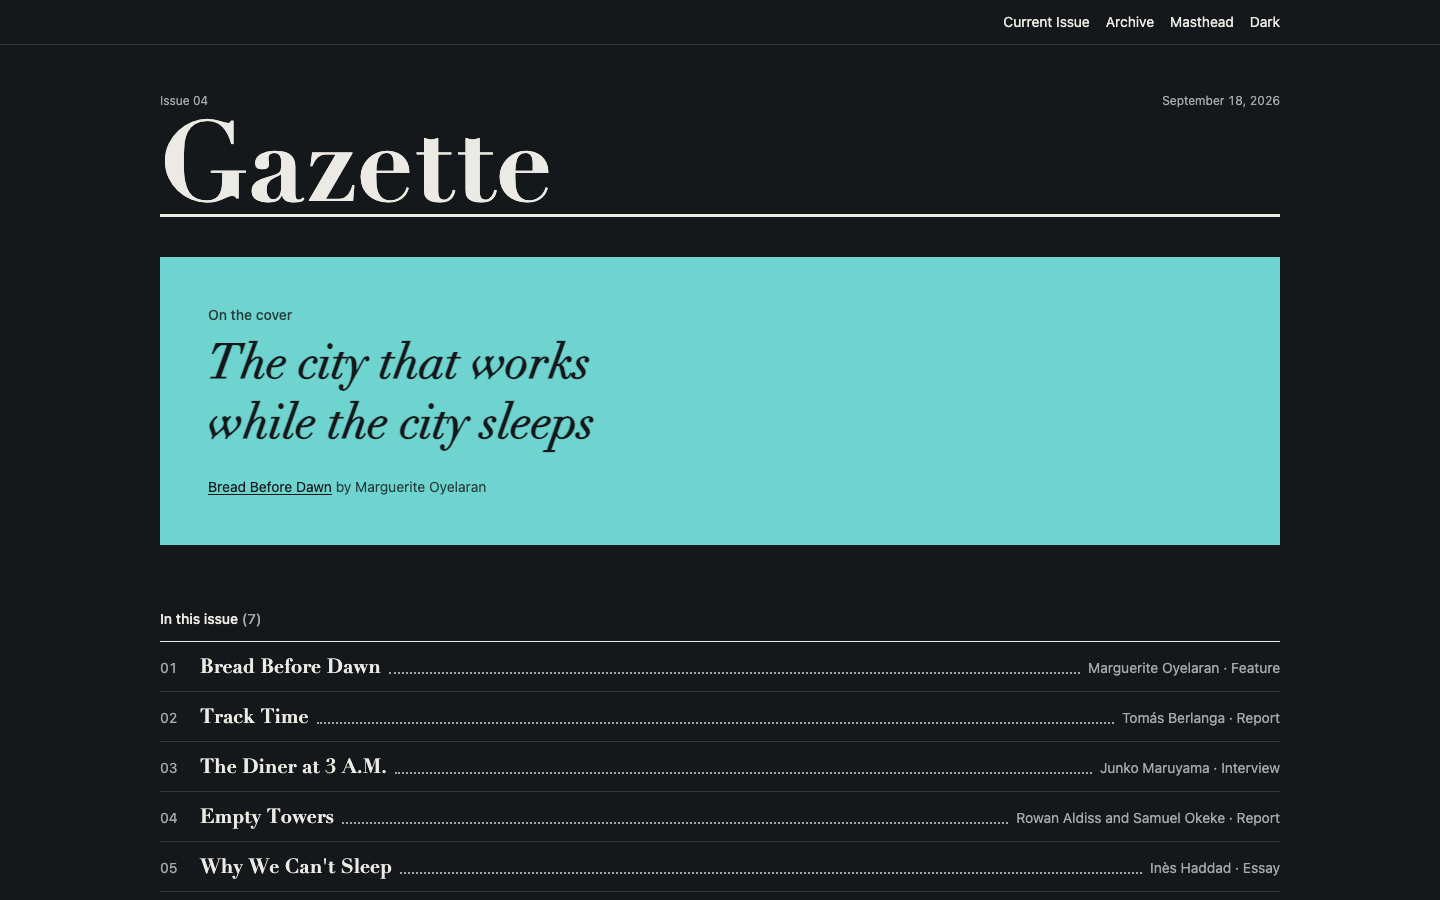
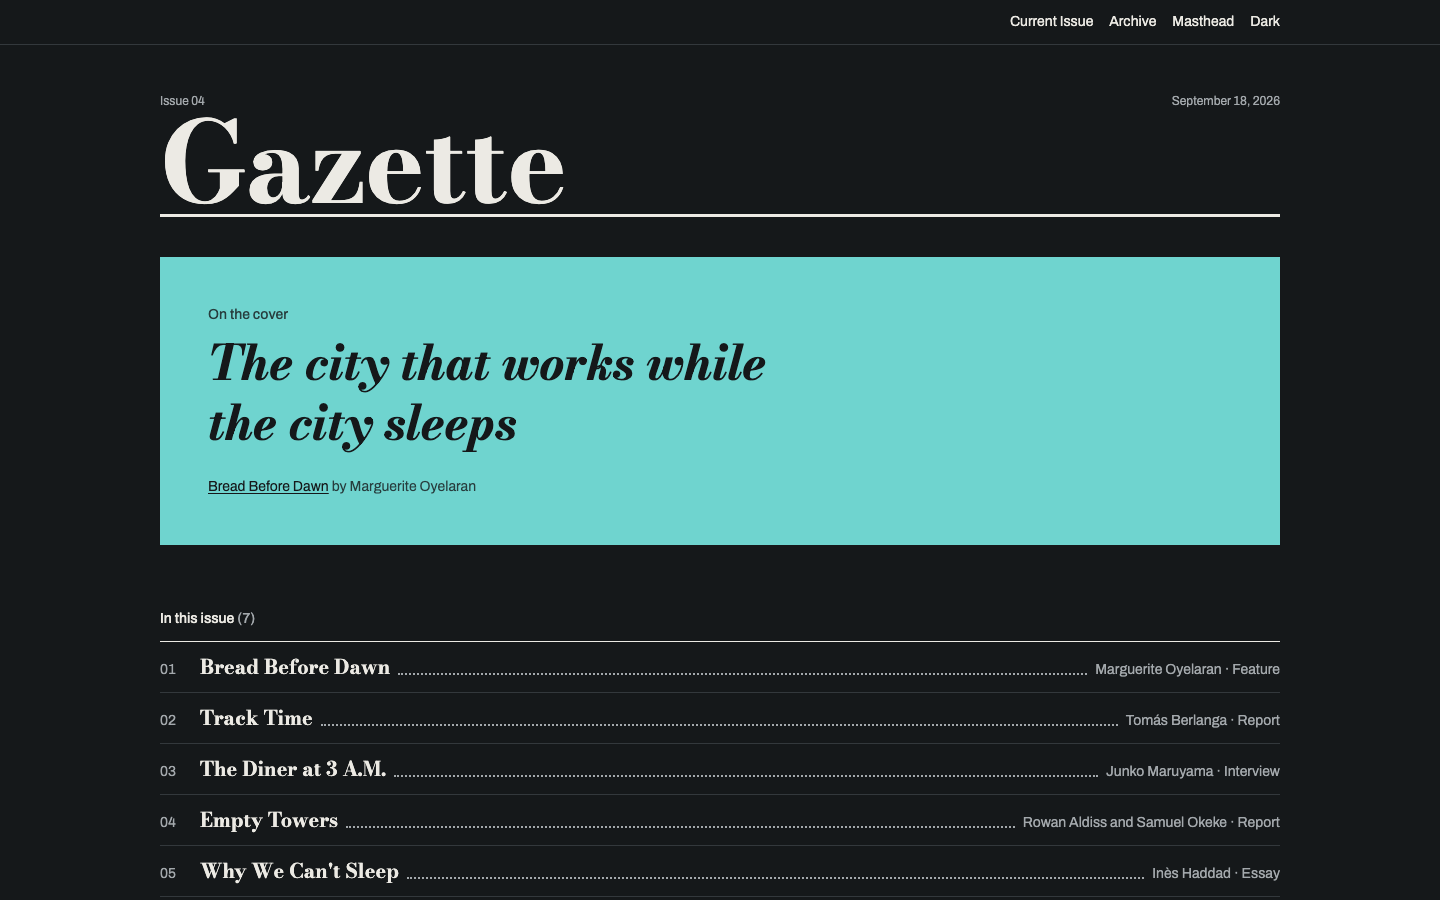
Release v1.1.0

diff --git a/src/styles/tokens.css b/src/styles/tokens.css
@@ -35,11 +35,11 @@
   --leader-dot: 2px; /* dot diameter; the browser sets the gap to match */
   --leader-color: var(--muted);
 
-  /* Type. The fonts block in astro.config.mjs defines --font-body and
-     --font-heading when webfonts are loaded; these stacks are the fallback. */
-  --font-body: ui-serif, Georgia, Cambria, 'Times New Roman', serif; /* Literata */
-  --font-heading: ui-sans-serif, system-ui, -apple-system, 'Segoe UI', sans-serif; /* Archivo */
-  --font-display: 'Didot', ui-serif, Georgia, serif; /* Bodoni Moda: covers, feature openers */
+  /* Type. --font-body (Literata), --font-heading (Archivo) and --font-display
+     (Bodoni Moda: covers, feature openers) are defined by the fonts block in
+     astro.config.mjs, together with their fallback stacks. Do not redeclare them
+     here: this file is served after those, so a copy here wins and the webfonts
+     never render. Swap a face in astro.config.mjs, or override in theme.css. */
   --font-mono: ui-monospace, 'SF Mono', Menlo, Consolas, monospace;
 
   /* Layout */

diff --git a/src/config.ts b/src/config.ts
@@ -61,6 +61,9 @@ export const features = {
 };
 
 export const analytics = {
-  provider: null as null | 'plausible' | 'ga4',
+  provider: null as null | 'plausible' | 'ga4' | 'umami',
   id: '',
+  // Self-hosted Plausible or Umami: the origin serving the script, no trailing slash.
+  // Empty means the hosted service. GA4 ignores it.
+  host: '',
 };

diff --git a/docs/deploy.md b/docs/deploy.md
@@ -18,6 +18,10 @@ and `robots.txt` all print absolute URLs from it.
 npm i -g "$(node -p "require('./package.json').packageManager.split('+')[0]")"
 ```
 
+`engines` sets a floor, not a ceiling, so a host picks the newest major it offers: Vercel prints a
+warning and builds on Node 24. That is fine for this theme. Pin the major in your host's settings
+if you would rather not move with them.
+
 ## Build
 
 ```sh
@@ -31,25 +35,36 @@ host will serve.
 `SITE_URL` overrides `site.url` at build time, which is useful for a staging deploy:
 `SITE_URL=https://staging.example.com pnpm build`.
 
+## One-click deploy
+
+Each button clones this repository into your own GitHub account, builds it and puts it online. You
+confirm a name; there is nothing else to set. The host reads `package.json`, sees Astro and the
+pinned pnpm, and takes `dist/`.
+
+[![Deploy to Cloudflare](https://deploy.workers.cloudflare.com/button)](https://deploy.workers.cloudflare.com/?url=https://github.com/ondelva/astro-theme-gazette)
+[![Deploy to Netlify](https://www.netlify.com/img/deploy/button.svg)](https://app.netlify.com/start/deploy?repository=https://github.com/ondelva/astro-theme-gazette)
+[![Deploy with Vercel](https://vercel.com/button)](https://vercel.com/new/clone?repository-url=https://github.com/ondelva/astro-theme-gazette)
+
+Then do one thing: set the build environment variable `SITE_URL` to the address you were given (or
+your own domain) and redeploy. Canonical links, the feed, the sitemap and `robots.txt` are absolute,
+and the default in `src/config.ts` is `https://example.com`. Editing `site.url` in your new
+repository instead works the same way.
+
+GitHub Pages has no button of its own — see below.
+
 ## Your own repository
 
-Hosts build from a Git repository you own. The Pro repository is private and cannot be forked, and
-the zip carries no Git history, so push your own copy first.
+Hosts build from a Git repository you own. A button above makes one for you. The other two routes:
 
-If you cloned from GitHub, keep the theme repository as `upstream` so you can pull later releases:
+**Fork this repository.** The fork keeps the link back here, so you can pull later releases.
 
-```sh
-git remote rename origin upstream
-git remote add origin https://github.com/<you>/<your-site>.git
-git push -u origin main
-```
-
-If you started from the zip:
+**Start from the CLI.** `pnpm create astro@latest my-magazine -- --template ondelva/astro-theme-gazette`
+copies the files with no Git history of this repository, so make your own:
 
 ```sh
 git init -b main
 git add -A
-git commit -m "Start from Gazette Pro"
+git commit -m "Start from Gazette"
 git remote add origin https://github.com/<you>/<your-site>.git
 git push -u origin main
 ```
@@ -65,9 +80,18 @@ Build command `pnpm build`, output directory `dist`.
 
 Framework preset Astro, build command `pnpm build`, output directory `dist`.
 
+A new project is private: the build succeeds, and the deployment URL answers with a login screen
+(Deployment Protection, a 302 to Vercel's SSO). Attach your domain, or turn protection off under
+Settings -> Deployment Protection, before you send the link to anyone.
+
 ## Netlify
 
 Build command `pnpm build`, publish directory `dist`.
+
+Two things a first deploy does on its own. `pnpm-workspace.yaml` makes Netlify read the project as
+a monorepo and propose `pnpm --filter <name>... run build`; leave it, it builds correctly. And a
+new site is private by default, so the `.netlify.app` URL answers 401 until you attach a domain or
+make the site public.
 
 ## GitHub Pages
 

diff --git a/AGENTS.md b/AGENTS.md
@@ -63,7 +63,7 @@ rounded cards or shadows.
 | UI strings the theme prints                      | `src/i18n/<locale>.ts`                                                 | Components read them with `useT()`. Never hardcode a word in a component                      |
 | The feed                                         | `src/pages/rss.xml.ts`                                                 | Every published piece of the default language, newest issue first                             |
 | `robots.txt`                                     | `src/pages/robots.txt.ts`                                              | A route, not a static file: the sitemap line has to be absolute                               |
-| Analytics provider and id                        | `src/config.ts` (`analytics`), `src/components/common/Analytics.astro` | `provider: null` renders nothing. Plausible takes the domain, GA4 the measurement id          |
+| Analytics provider and id                        | `src/config.ts` (`analytics`), `src/components/common/Analytics.astro` | `provider: null` renders nothing. Plausible, GA4 or Umami; `host` for a self-hosted one       |
 | The documentation                                | `docs/customization.md`, `docs/content.md`, `docs/deploy.md`           | Every config group and content field is named in one of the three. Change one, change the doc |
 | What CI runs                                     | `.github/workflows/ci.yml`, `lighthouserc.json`                        | Lighthouse pages and the 95+ thresholds live in `lighthouserc.json`                           |
 

diff --git a/CHANGELOG.md b/CHANGELOG.md
@@ -2,6 +2,29 @@
 
 All notable changes to this project are documented here. Format: [Keep a Changelog](https://keepachangelog.com/en/1.1.0/).
 
+## [1.1.0] - 2026-09-21
+
+### Added
+
+- Umami as an analytics provider, next to Plausible and GA4. `analytics.host` points a self-hosted
+  Plausible or Umami at your own origin; leave it empty for the hosted service. The default is
+  still `provider: null`, and a build with nothing set loads no third-party script.
+- One-click deploy buttons for Cloudflare, Netlify and Vercel in the README and in
+  `docs/deploy.md`, with the `SITE_URL` step that follows them.
+
+### Fixed
+
+- The screenshots in `docs/screenshots/` were taken before the webfonts loaded, so they showed
+  the system fallbacks rather than the faces the theme ships. All of them are new.
+- The webfonts were never loaded. `astro.config.mjs` extracted the woff2 files but no `<Font>` put
+  them in the `<head>`, and `tokens.css` redeclared the three font variables as system stacks on
+  top of what the font component sets. Both are fixed, and Archivo 400/500 are preloaded so the
+  swap no longer shifts the page. Until now the cover fell back to Didot on macOS and Georgia
+  elsewhere.
+- `docs/deploy.md` described the Pro edition: a private repository that cannot be forked, and a zip
+  with no Git history. This edition is public, so the section now covers the three routes that
+  apply to it. The `pro-only` marker on `Analytics.astro` is gone as well.
+
 ## [1.0.1] - 2026-09-21
 
 ### Added

diff --git a/docs/customization.md b/docs/customization.md
@@ -107,12 +107,15 @@ To reword something, edit the dictionary. To publish in another language, copy `
 
 ## Analytics
 
-`src/config.ts`, the `analytics` object. `provider` is `null` (nothing is rendered), `'plausible'`
-or `'ga4'`; `id` is the domain you registered with Plausible, or the GA4 measurement id
-(`G-XXXXXXX`). The snippet lives in `src/components/common/Analytics.astro` — swap in another
-provider's tag there.
+`src/config.ts`, the `analytics` object. `provider` is `null` (nothing is rendered), `'plausible'`,
+`'ga4'` or `'umami'`. `id` is the domain you registered with Plausible, the GA4 measurement id
+(`G-XXXXXXX`), or the Umami website id. The snippet lives in
+`src/components/common/Analytics.astro` — swap in another provider's tag there.
 
-Until both fields are filled in, the built pages load no third-party script at all.
+`host` is for a self-hosted Plausible or Umami: the origin that serves the script, with no trailing
+slash (`https://stats.example.com`). Leave it empty for the hosted service, and for GA4.
+
+Until `provider` and `id` are both filled in, the built pages load no third-party script at all.
 
 ## SEO
 

diff --git a/README.md b/README.md
@@ -54,8 +54,14 @@ contents style and the feature switches. Colours, rules and spacing are tokens y
 
 ## Deploy
 
-Static output. Works on Cloudflare, Vercel, Netlify and GitHub Pages.
-See [docs/deploy.md](docs/deploy.md).
+Static output. Works on Cloudflare, Vercel, Netlify and GitHub Pages. One click and the host clones
+this repository into your account, builds it and puts it online:
+
+[![Deploy to Cloudflare](https://deploy.workers.cloudflare.com/button)](https://deploy.workers.cloudflare.com/?url=https://github.com/ondelva/astro-theme-gazette)
+[![Deploy to Netlify](https://www.netlify.com/img/deploy/button.svg)](https://app.netlify.com/start/deploy?repository=https://github.com/ondelva/astro-theme-gazette)
+[![Deploy with Vercel](https://vercel.com/button)](https://vercel.com/new/clone?repository-url=https://github.com/ondelva/astro-theme-gazette)
+
+Set `SITE_URL` to your address afterwards. See [docs/deploy.md](docs/deploy.md).
 
 ## Free vs Pro
 
